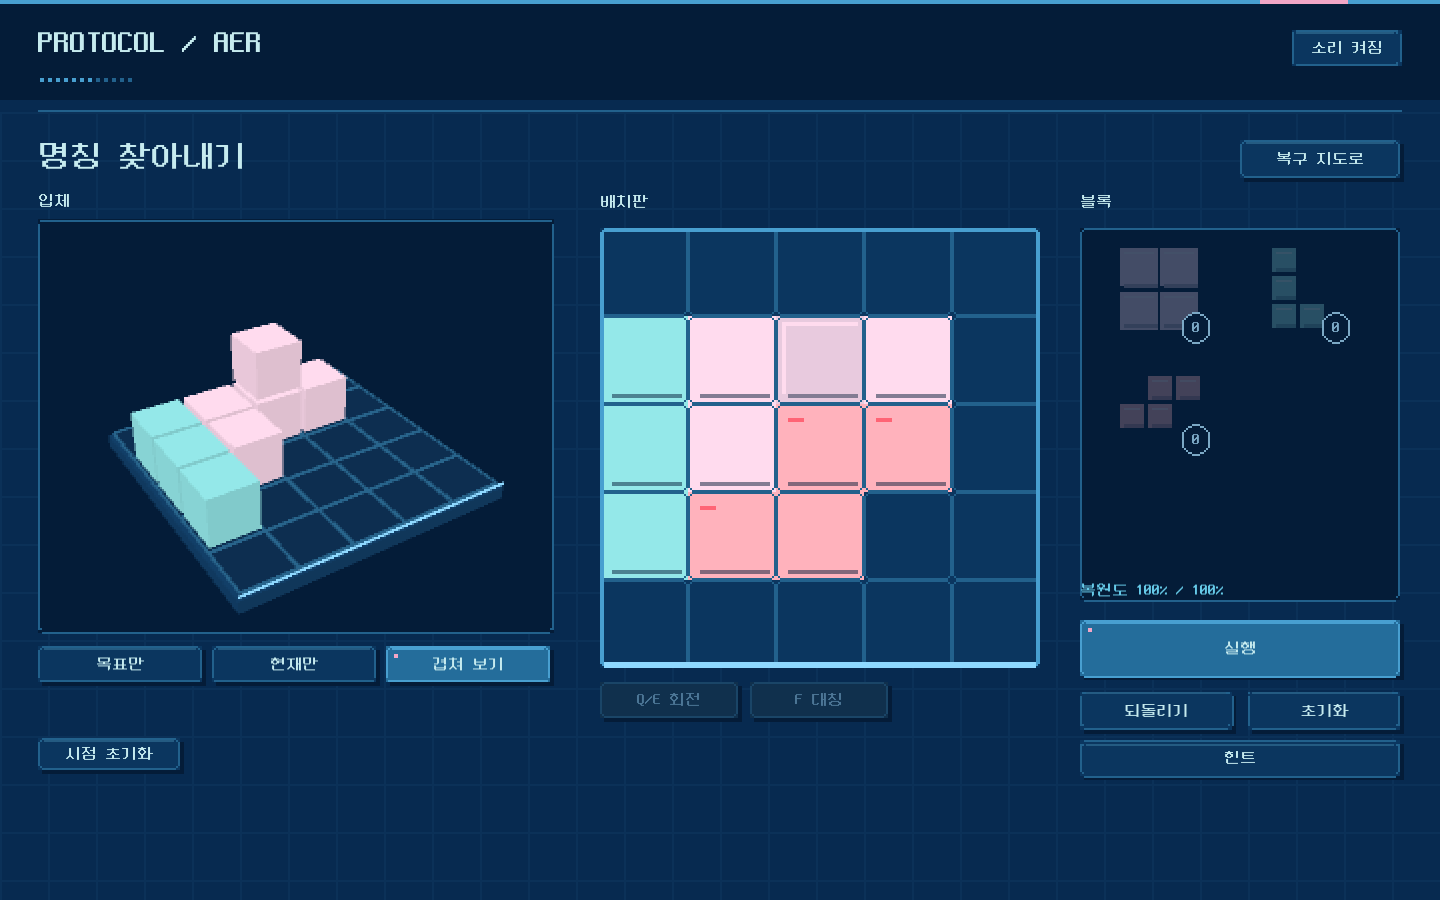
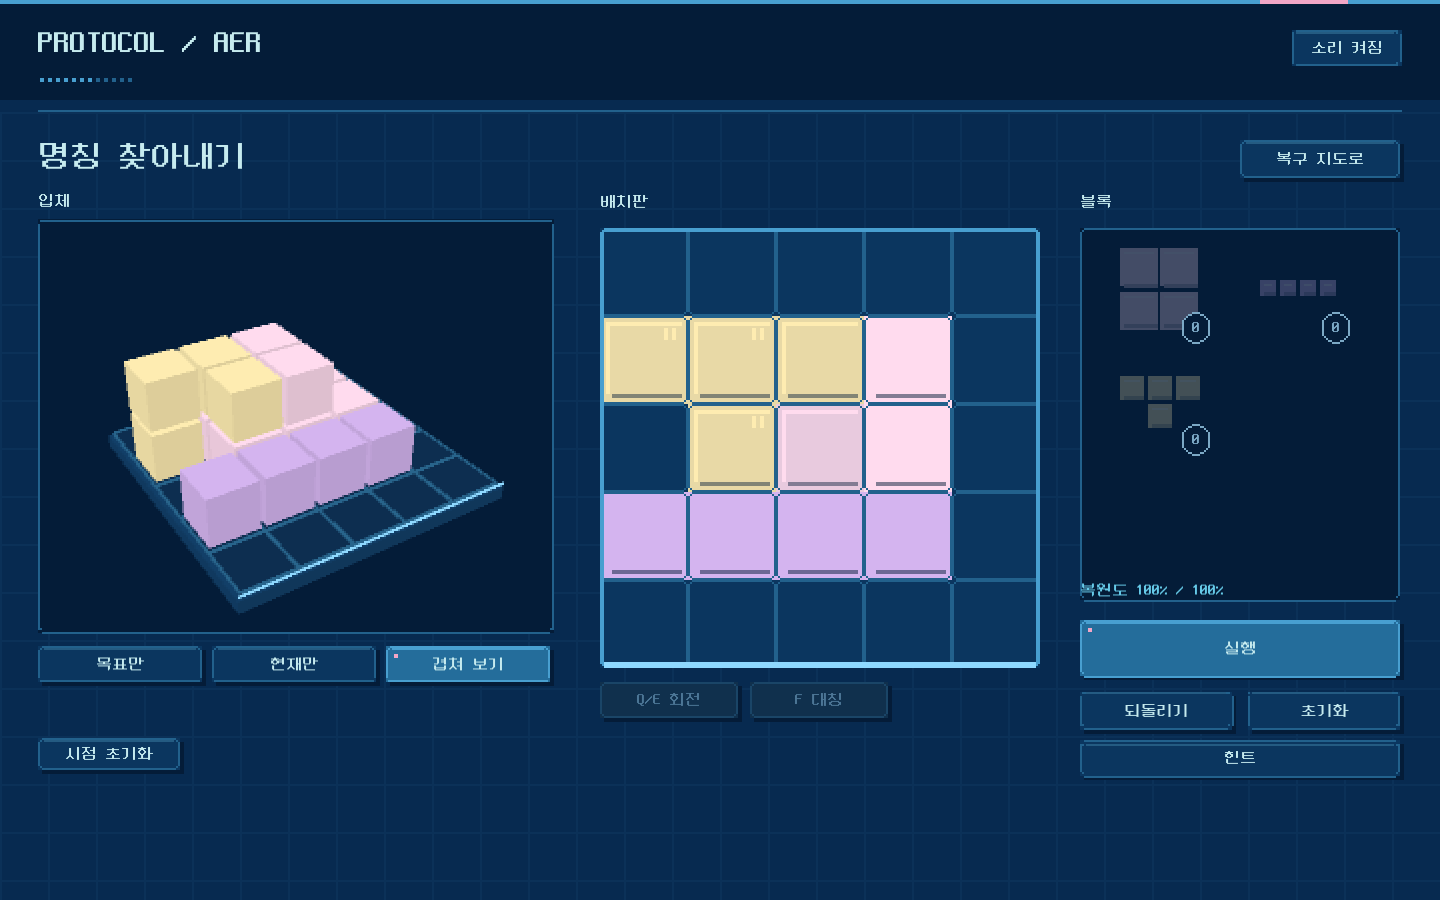
Introduce T before S while preserving building names

diff --git a/Assets/Editor/AerBuilder.cs b/Assets/Editor/AerBuilder.cs
@@ -59,7 +59,7 @@ public static class AerBuilder
         var test=new EveningBoard();if(test.TryPlace(4,new[]{new Vector2Int(4,4),new Vector2Int(5,4),new Vector2Int(4,5),new Vector2Int(5,5)},out _))throw new Exception("Boundary violation accepted");
         foreach(var at in new[]{new Vector2Int(1,1),new Vector2Int(1,1)}){var cells=(Vector2Int[])EveningBoard.Shapes[4].Clone();for(int i=0;i<4;i++)cells[i]+=at;test.TryPlace(4,cells,out _);}
         if(test.Heights()[1,1]!=2||test.Coverage!=4||test.MaxHeight!=2)throw new Exception("Overlap must become height");
-        foreach(var pair in new[]{new[]{5,3},new[]{8,2},new[]{10,1},new[]{11,0}})
+        foreach(var pair in new[]{new[]{5,3},new[]{8,2},new[]{10,0},new[]{11,1}})
         {
             var stage=AerStages.All[pair[0]];if(stage.RequiredAction!=pair[1]||stage.SupplyOf(pair[1])==0)throw new Exception("New mino must be required");
             var missing=new EveningBoard();foreach(var step in stage.Solution)if(step.Action!=pair[1])missing.TryPlace(step.Action,step.Cells(),out _);
@@ -84,26 +84,26 @@ public static class AerBuilder
         if(rotations!=1)throw new Exception("Waterworks must preserve one rotation task");
         foreach(int action in new[]{0,1,2,3,4})
         {
-            int unlock=action==0?11:action==1?10:action==2?8:action==3?5:0;
+            int unlock=action==0?10:action==1?11:action==2?8:action==3?5:0;
             for(int i=0;i<AerStages.All.Length;i++)
             {
-                bool expected=i==6?action==3:i==10?(action==4||action==3||action==1):i==11?(action==4||action==2||action==0):i>=unlock;
+                bool expected=i==6?action==3:i==10?(action==4||action==2||action==0):i==11?(action==4||action==3||action==1):i>=unlock;
                 if(AerStages.All[i].Allows(action)!=expected)throw new Exception("Stage teaching set/unlock timing changed");
             }
         }
-        var windProof=new EveningBoard();
-        foreach(var step in AerStages.All[10].Solution)
+        var sIntro=AerStages.All[11];var sProof=new EveningBoard();
+        foreach(var step in sIntro.Solution)
         {
-            if(step.Action==2)throw new Exception("Windway teaching solution must not use I");
-            windProof.TryPlace(step.Action,step.Cells(),out _);
+            if(step.Action==2||step.Action==0)throw new Exception("S introduction should provide only O L S");
+            sProof.TryPlace(step.Action,step.Cells(),out _);
         }
-        if(AerStages.All[10].Similarity(windProof)!=100||!AerStages.All[10].Complete(windProof))throw new Exception("Windway must remain solvable at 100% without I");
-        var control=AerStages.All[11];
-        if(control.SupplyOf(4)!=2||control.SupplyOf(2)!=1||control.SupplyOf(0)!=1)throw new Exception("Control room must use O O I T");
+        if(sIntro.Name!="환경 제어실"||sIntro.Similarity(sProof)!=100||!sIntro.Complete(sProof))throw new Exception("S stage order/name or solution mismatch");
+        var tIntro=AerStages.All[10];
+        if(tIntro.Name!="바람길 제어소"||tIntro.SupplyOf(4)!=2||tIntro.SupplyOf(2)!=1||tIntro.SupplyOf(0)!=1)throw new Exception("T must come first with O O I T at the unchanged building name");
         foreach(int action in new[]{4,2,0})
         {
-            var without=new EveningBoard();foreach(var step in control.Solution)if(step.Action!=action)without.TryPlace(step.Action,step.Cells(),out _);
-            if(control.Complete(without))throw new Exception("Each O I T type must contribute to the reference reconstruction");
+            var without=new EveningBoard();foreach(var step in tIntro.Solution)if(step.Action!=action)without.TryPlace(step.Action,step.Cells(),out _);
+            if(tIntro.Complete(without))throw new Exception("Each O I T type must contribute to the reference reconstruction");
         }
         // The L-only teaching set keeps the old relay target exactly.
         var oldRelay=new AerStage("previous relay","TEST","",new AerStage.Step(4,1,1),new AerStage.Step(4,0,2),new AerStage.Step(3,1,0,2),new AerStage.Step(3,2,1,1));

diff --git a/Assets/Scripts/ProtocolAer.cs b/Assets/Scripts/ProtocolAer.cs
@@ -613,7 +613,7 @@ public sealed class ProtocolAer:MonoBehaviour
     {
         int a=newMino;Modal(new Rect(380,205,680,480),"",EveningBoard.Names[a]+" 미노 추가");
         DrawMino(new Rect(440,345,140,140),a);
-        string effect=a==1?"덮은 네 칸을 그중 가장 낮은 높이로 맞춘다.\n기준은 효과 적용 전 높이.":a==0?"덮은 네 칸을 그중 가장 높은 높이로 맞춘다.\nS와 T가 겹친 칸은 원래 높이를 유지한다.\n기준은 효과 적용 전 높이.":"덮는 칸마다 높이 +1";
+        string effect=a==1?"덮은 네 칸을 그중 가장 낮은 높이로 맞춘다.\nS와 T가 겹친 칸은 원래 높이를 유지한다.\n기준은 효과 적용 전 높이.":a==0?"덮은 네 칸을 그중 가장 높은 높이로 맞춘다.\n기준은 효과 적용 전 높이.":"덮는 칸마다 높이 +1";
         Text(new Rect(625,335,390,160),effect,20,Ink,true);
         if(Button(new Rect(420,565,600,65),"확인",true,true)){knownMinos.Add(a);newMino=-1;}
     }
@@ -753,7 +753,7 @@ public sealed class ProtocolAer:MonoBehaviour
                 if(board.Pieces.Count!=count+1||held>=0)throw new Exception("Following the hint click did not place its mino");
             }
             if(!Stage.Complete(board))throw new Exception("Following hints did not solve stage "+n);
-            if(n==10&&(board.Count(1)==0||!Stage.RequiredMinoUsed(board)))throw new Exception("Wind hints did not require meaningful S use");
+            if((n==10||n==11)&&(board.Count(Stage.RequiredAction)==0||!Stage.RequiredMinoUsed(board)))throw new Exception("Introduction hints must use the newly introduced operator");
         }
         EnterStage(12);newMino=-1;Select(4);hover=new Vector2Int(0,3);Place();
         RequestHint();
@@ -765,11 +765,15 @@ public sealed class ProtocolAer:MonoBehaviour
 
         EnterStage(1);RequestHint();onGrid=true;hover=hintAnchor;Place();Undo();RequestHint();
         if(hint!=0||board.Pieces.Count!=0)throw new Exception("Hints must recompute after undo");
-        EnterStage(10);newMino=-1;
-        foreach(var step in new[]{new AerStage.Step(3,0,0,2),new AerStage.Step(4,1,1),new AerStage.Step(3,1,2,2),new AerStage.Step(3,2,2,2)})board.TryPlace(step.Action,step.Cells(),out _);
-        Rebuild();Execute();if(executing||success||cleared[10]||!message.Contains("S"))throw new Exception("S-free wind attempt bypassed execution gate");
+        foreach(int introIndex in new[]{10,11})
+        {
+            EnterStage(introIndex);newMino=-1;
+            foreach(var step in Stage.Solution)if(step.Action!=Stage.RequiredAction)board.TryPlace(step.Action,step.Cells(),out _);
+            Rebuild();Execute();
+            if(executing||success||cleared[introIndex]||!message.Contains(EveningBoard.Names[Stage.RequiredAction]))throw new Exception("Operator-free introduction attempt bypassed execution gate");
+        }
         EnterStage(0);
-        Debug.Log("AER_HINTS_PASSED: all 13 stages solved through production hints/click anchors; rotation and S/T types; duplicate placements; wrong-plan correction; undo; S-free wind rejected");
+        Debug.Log("AER_HINTS_PASSED: all 13 stages solved through production hints/click anchors; rotation and S/T types; duplicate placements; wrong-plan correction; undo; operator-free introductions rejected");
     }
     IEnumerator CheckStockInteraction(string directory)
     {

diff --git a/Assets/Scripts/AerStages.cs b/Assets/Scripts/AerStages.cs
@@ -37,15 +37,15 @@ public sealed class AerStage
     }
     public int SupplyOf(int action){int n=0;foreach(var step in Solution)if(step.Action==action)n++;return n;}
     // Unlocks follow region progress, not the number of pieces in an example solution.
-    public int RequiredAction=>Code=="NAME-03"?3:Code=="NAME-05"?2:Code=="NAME-07"?1:Code=="NAME-08"?0:-1;
+    public int RequiredAction=>Code=="NAME-03"?3:Code=="NAME-05"?2:Code=="NAME-07"?0:Code=="NAME-08"?1:-1;
     public bool Allows(int action)
     {
         // Stage-specific teaching sets.
         if(Code=="NAME-04")return action==3;
-        if(Code=="NAME-07")return action==4||action==3||action==1;
-        if(Code=="NAME-08")return action==4||action==2||action==0;
+        if(Code=="NAME-07")return action==4||action==2||action==0;
+        if(Code=="NAME-08")return action==4||action==3||action==1;
         int index=Array.IndexOf(AerStages.All,this);
-        return action==4||action==3&&index>=5||action==2&&index>=8||action==1&&index>=10||action==0&&index>=11;
+        return action==4||action==3&&index>=5||action==2&&index>=8||action==1&&index>=11||action==0&&index>=10;
     }
     public int Remaining(EveningBoard board,int action)=>LimitedSupply?Math.Max(0,SupplyOf(action)-board.Count(action)):-1;
     public bool CanPlace(EveningBoard board,int action)=>Allows(action)&&(!LimitedSupply||Remaining(board,action)>0);
@@ -82,8 +82,8 @@ public static class AerStages
         // One extra O overlap and one vertical I; fewer competing orientations.
         new AerStage("급수 관리소","NAME-06","",M(4,1,1),M(4,2,1),M(3,0,1),M(2,3,0,1),M(4,2,2)),
         // Each introduction uses three ordinary pieces and one local operator.
-        new AerStage("바람길 제어소","NAME-07","",M(4,1,1),M(4,2,1),M(3,0,1),M(1,1,2)),
-        new AerStage("환경 제어실","NAME-08","",M(4,1,1),M(4,2,1),M(2,0,3),M(0,0,1)),
+        new AerStage("바람길 제어소","NAME-07","",M(4,1,1),M(4,2,1),M(2,0,3),M(0,0,1)),
+        new AerStage("환경 제어실","NAME-08","",M(4,1,1),M(4,2,1),M(3,0,1),M(1,1,2)),
         // Both local effects matter; their two shared cells retain raw heights.
         new AerStage("강수 복원","WEATHER-02","복원도 90% 이상",M(4,1,1),M(4,2,1),M(3,0,1),M(2,0,2),M(1,1,2),M(0,0,2))
     };

diff --git a/docs/Development.md b/docs/Development.md
@@ -8,9 +8,9 @@ Animated title → terminal → optional three-step tutorial → radar map with 
 
 Targets are generated from example solutions. Names require exact height matches, and introduced operators must change the output. Sunlight requires 85% and final rainfall requires 90% volume IoU without a special effect condition. O/L/I add +1. S levels its four cells to their original minimum; T levels its four cells to their original maximum. All operators sample the same ordinary-only height map, including empty cells at zero. S/T intersections preserve the original height. Overlapping S candidates take the lower candidate, T candidates take the higher candidate. There is no chaining or placement-order dependency. T-created layers, including in empty cells, use T's yellow color; lowering removes upper layers. UI notices explain the new effects and shared-cell rule.
 
-Unlocks are O initially, L in name 3, I in name 5, S in name 7 and T in name 8. Non-weather stages provide per-type quotas from the reference solution. Weather remains unlimited. No save state exists. Relay keeps its original target but now offers only L, with a four-L example solution including one mirrored placement. Hint orientation and production replay both apply mirror before rotation. Other early targets, tutorials and the first weather are unchanged. Waterworks now uses three O, one L and one vertical I: one more ordinary piece than the archive, preserving an I rotation while simplifying the old multiple L/I orientation combinations. Difficulty comparisons are design targets, not a substitute for playtesting.
+Unlocks are O initially, L in name 3, I in name 5, T in name 7 and S in name 8. Non-weather stages provide per-type quotas from the reference solution. Weather remains unlimited. No save state exists. Relay keeps its original target but now offers only L, with a four-L example solution including one mirrored placement. Hint orientation and production replay both apply mirror before rotation. Other early targets, tutorials and the first weather are unchanged. Waterworks now uses three O, one L and one vertical I: one more ordinary piece than the archive, preserving an I rotation while simplifying the old multiple L/I orientation combinations. Difficulty comparisons are design targets, not a substitute for playtesting.
 
-Windway and control room each use three ordinary pieces and one operator. Windway provides only O/L/S: its exact O/O/L/S solution needs no I. Control room provides O/I/T; its four-piece example solution uses two O pieces, one horizontal I along the lower edge, and one T leveling the upper overlap. All three types contribute, while the maximum target height is two. These stage-specific teaching sets do not change later unlocks; the finale restores all five types. S introduction omits T; mixed intersections are introduced with T. The final rainfall uses four ordinary pieces and S/T, all in default orientation. Both effects matter in its reference solution. Two common cells preserve original heights while exclusive S cells lower and exclusive T cells raise. The old whole-mino inversion, doubling and -2 rules have been removed.
+Windway introduces T first in name 7, providing O/I/T with the O/O/I/T reference puzzle. Control room introduces S next in name 8, providing O/L/S with the O/O/L/S reference puzzle. The two existing puzzles and their quotas are exchanged; building names and map locations are unchanged. T introduction omits S; mixed intersections are introduced with S, after T is known. The finale restores all five types. The final rainfall uses four ordinary pieces and S/T, all in default orientation. Both effects matter in its reference solution. Two common cells preserve original heights while exclusive S cells lower and exclusive T cells raise. The old whole-mino inversion, doubling and -2 rules have been removed.
 ## Controls
 
 - Any key/click on title: connect.
